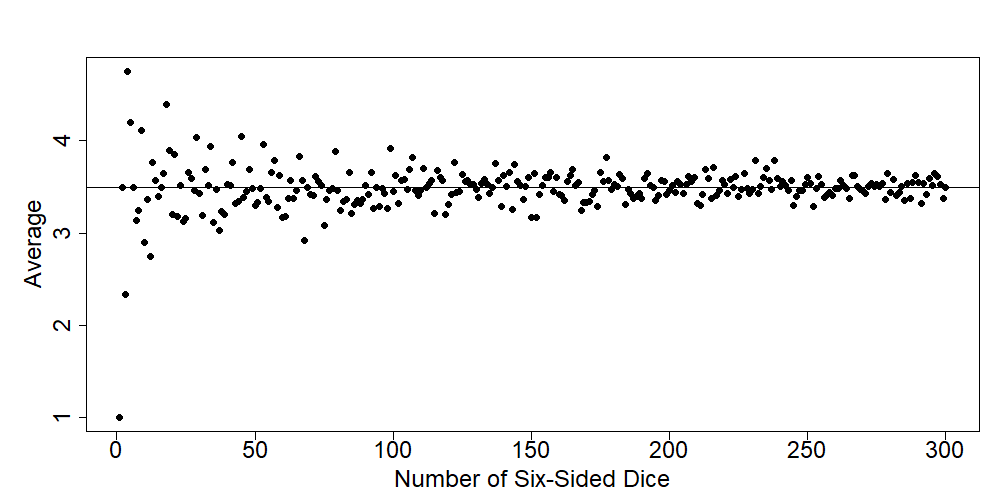
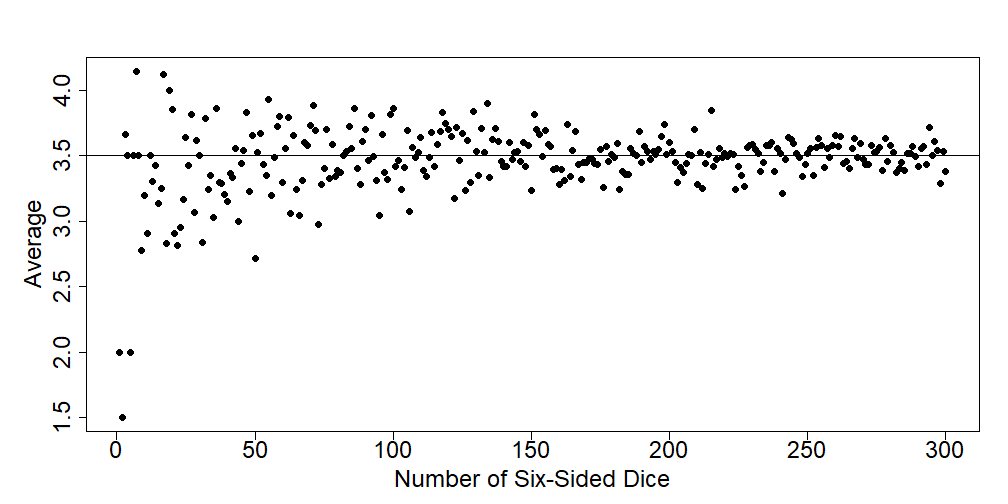
typos

diff --git a/lab04-slides/lab04-slides-async.html b/lab04-slides/lab04-slides-async.html
@@ -101,7 +101,7 @@ sample(1:6, size = 1)
 ```
 
 ```
-[1] 4
+[1] 1
 ```
 
 - Run the `sampleDieRoll` chunk (line ~63) and type what you got in the chat!
@@ -121,7 +121,7 @@ sample(1:6, size = 6, replace = F)
 ```
 
 ```
-[1] 1 6 4 5 2 3
+[1] 3 5 2 4 1 6
 ```
 
 --
@@ -132,7 +132,7 @@ sample(1:6, size = 6, replace = T)
 ```
 
 ```
-[1] 4 6 6 3 6 5
+[1] 4 2 5 2 5 3
 ```
 
 --
@@ -140,7 +140,7 @@ sample(1:6, size = 6, replace = T)
 - Which of these strategies represents die-rolling in real life?
 
 ---
-# Law of Large Numbers
+# Law of Large Numbers ♾
 
 As you collect more data, sample averages will get close to population averages ("*expected values*").
 
@@ -149,10 +149,10 @@ Roll dice
 
 ```
 [1] 5
-[1] 6 6
-[1] 1 5 4
-[1] 4 2 1 1
-[1] 5 6 6 6 1
+[1] 3 5
+[1] 6 6 3
+[1] 2 1 1 5
+[1] 2 3 3 3 6
 ```
 ]
 .pull-right[
@@ -160,17 +160,19 @@ Average of rolls
 
 ```
 [1] 5
-[1] 6
-[1] 3.333333
-[1] 2
-[1] 4.8
+[1] 4
+[1] 5
+[1] 2.25
+[1] 3.4
 ```
 ]
+
 --
+
 The mean seems like it's trying to do something, but it's too variable to really see what's happening.
 
 ---
-# Law of Large Numbers
+# Law of Large Numbers ♾
 
 &lt;img src="lab04-slides-async_files/figure-html/lln-1.png" style="display: block; margin: auto;" /&gt;
 
@@ -255,6 +257,19 @@ plot(penguins$bill_length_mm,
 &lt;img src="lab04-slides-async_files/figure-html/corExample-1.png" style="display: block; margin: auto;" /&gt;
 
 ---
+# Correlation (line ~155)
+We can find the correlation between two quantitative variables in R using the `cor()` function.
+
+
+```r
+cor(penguins$bill_length_mm, penguins$body_mass_g)
+```
+
+```
+[1] 0.5894511
+```
+
+
 ---
 
 # Lab Project ⌨
@@ -268,7 +283,7 @@ plot(penguins$bill_length_mm,
 ### How to get help
 - Use the "labs" section of Piazza to ask questions and work with your peers.
 - If you use Piazza, please note that in the "Collaborators" list at the top of the discussion section.
-- If you're really stuck, email me! nseewald@umich.edu
+- If you're really stuck, email your lab instructor!
 ]
 
 ---
@@ -277,21 +292,21 @@ plot(penguins$bill_length_mm,
 Hit the Knit button one last time, then:
 .pull-left[
 ## RStudio Cloud
-1. In the Files pane, check the box next to `lab01report.html`
+1. In the Files pane, check the box next to `lab04report.html`
 2. Click More &gt; Export...
 3. Click Download and save the file on your computer in a folder you'll remember and be able to find later.
 ]
 .pull-right[
 ## RStudio Desktop (local)
-1. Locate the `lab01report.html` file on your computer. The file will be saved in the location indicated at the top of the files pane. 
+1. Locate the `lab04report.html` file on your computer. The file will be saved in the location indicated at the top of the files pane. 
 ]
 
 ---
 
-# 📥 Lab Submission: Canvas (Due 9/11 8a ET)
-1. Click the "Assignments" panel on the left side of the page. Scroll to find "Lab 1", and open the assignment. Click "Submit Assignment".
+# 📥 Lab Submission: Canvas (Due 9/25 8a ET)
+1. Click the "Assignments" panel on the left side of the page. Scroll to find "Lab 4", and open the assignment. Click "Submit Assignment".
 
-2. Towards the bottom of the page, you'll be able to choose `lab01report.html` from the folder you saved it in from RStudio Cloud or noted if you're using RStudio Desktop. **You will only be able to upload a .html file -- do not upload any other file type.**
+2. Towards the bottom of the page, you'll be able to choose `lab04report.html` from the folder you saved it in from RStudio Cloud or noted if you're using RStudio Desktop. **You will only be able to upload a .html file -- do not upload any other file type.**
 3. Click "Submit Assignment". You're done!
     </textarea>
 <style data-target="print-only">@media screen {.remark-slide-container{display:block;}.remark-slide-scaler{box-shadow:none;}}</style>
